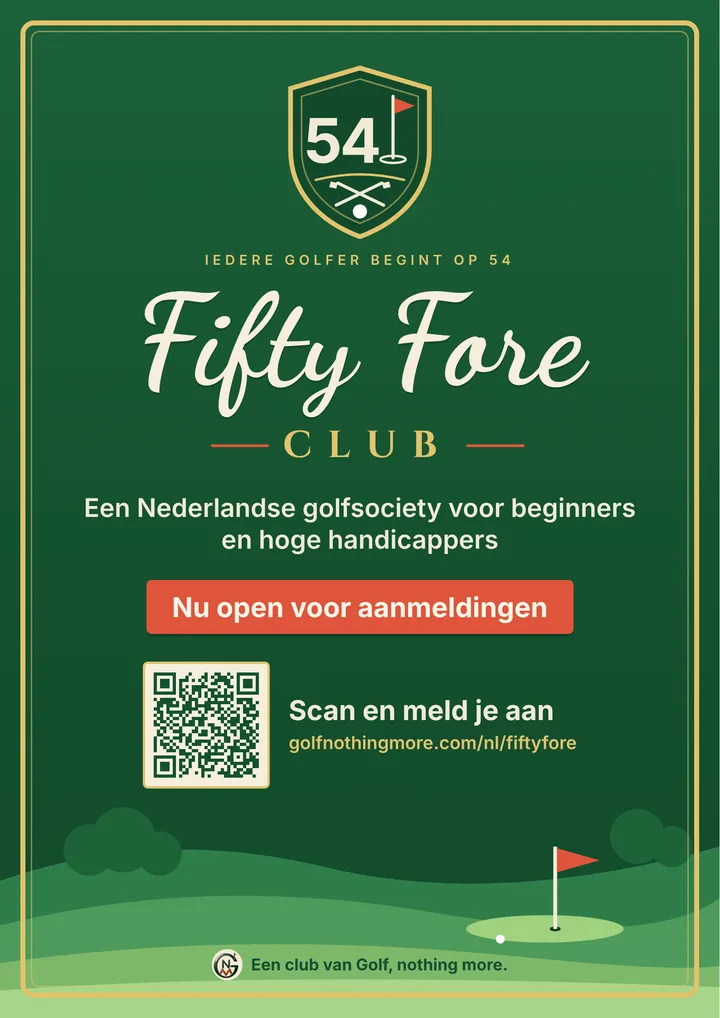
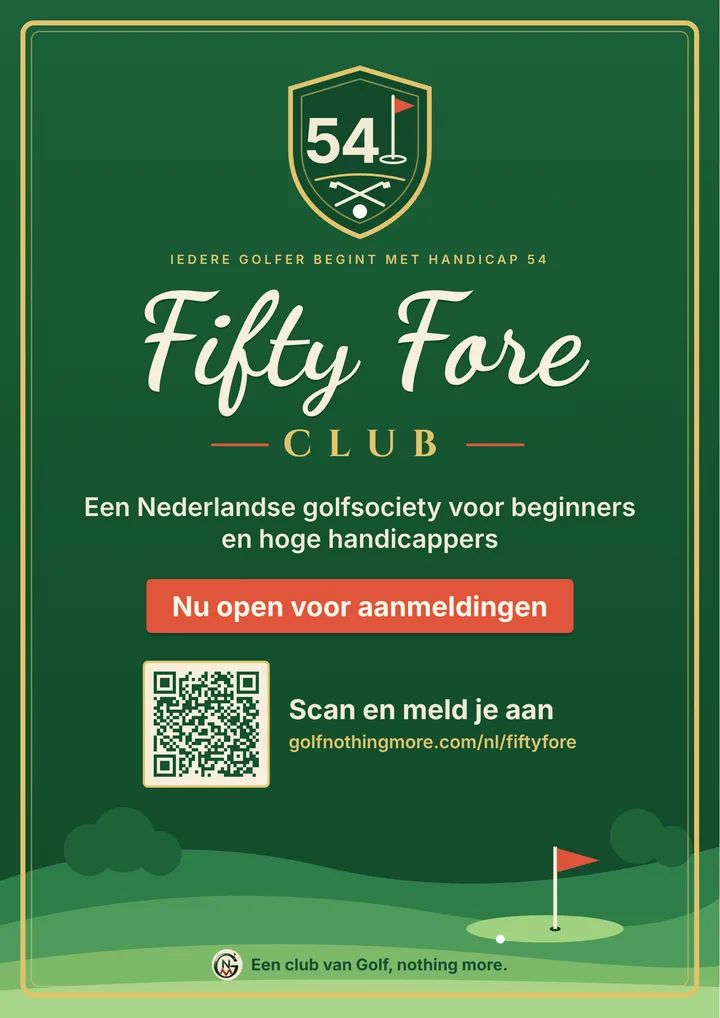
Fifty Fore Club: 'begint met handicap 54' in plaats van 'begint op 54'
Claude-Session: https://claude.ai/code/session_01X7EAAhpjUsE3ZqxN1iSmg9

diff --git a/nl/fiftyfore/index.html b/nl/fiftyfore/index.html
@@ -392,7 +392,7 @@ background:linear-gradient(180deg,#1C6139 0%,#14512F 40%,#124A2B 100%);color:var
   <header class="ff-hero2">
    <div class="ff-herotext">
     <picture><source srcset="/logo-dark.png" media="(prefers-color-scheme: dark)"><img class="mark" src="/logo-3d.png" width="296" height="300" alt="" decoding="async"></picture>
-    <p class="label">Iedere golfer begint op 54</p>
+    <p class="label">Iedere golfer begint met handicap 54</p>
     <h1 class="ffh"><span class="s">Fifty Fore</span><span class="c">Club</span></h1>
     <p class="lede">Een societyclub voor beginners, hoge handicappers en iedereen die vooral een leuke dag op de baan wil. <b>Samen golfen met mensen van jouw niveau, uit je eigen regio en de rest van Nederland.</b></p>
     <a class="btn-mail" href="#aanmelden">Meld je aan</a>
